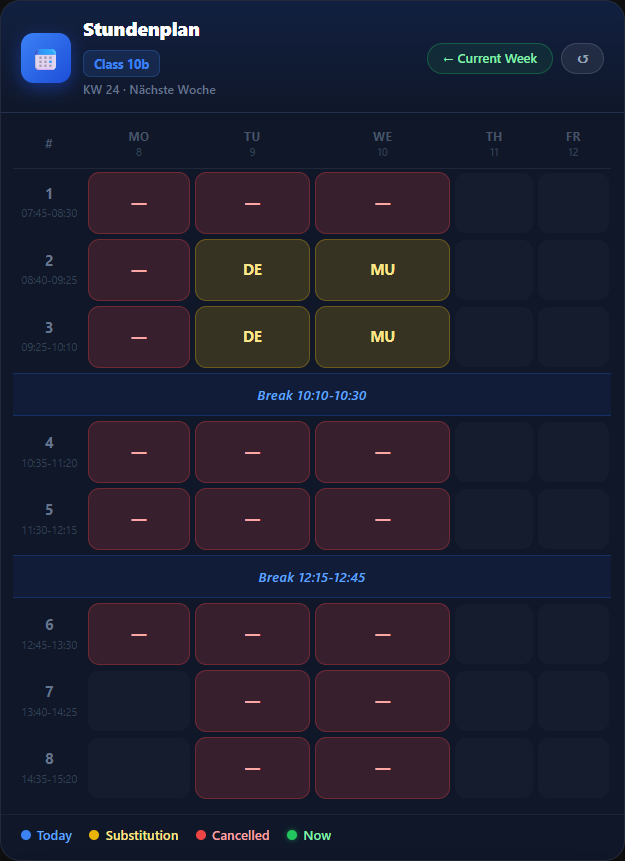
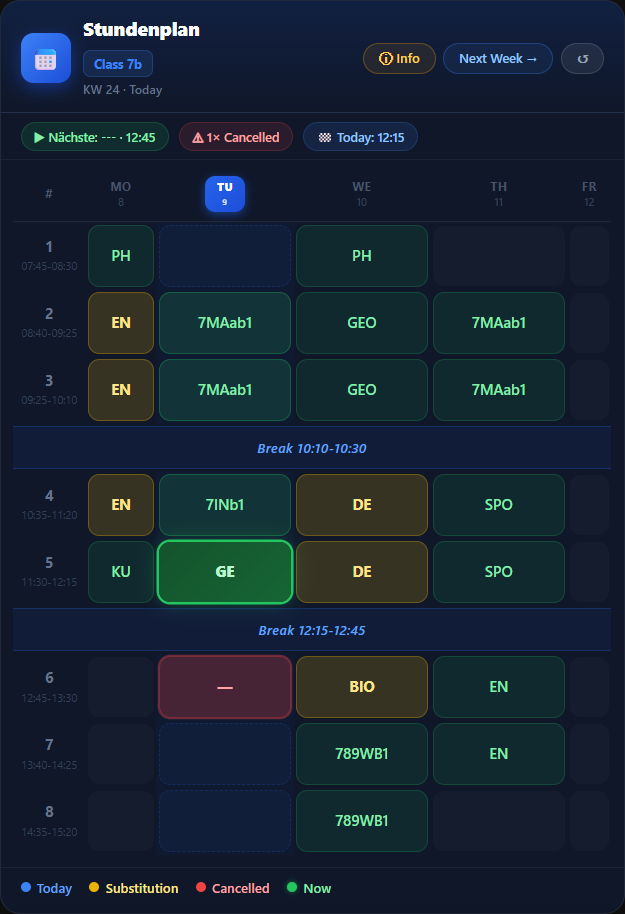
update bilder

diff --git a/website/index.html b/website/index.html
@@ -319,7 +319,7 @@
       </div>
       <div class="stat-divider"></div>
       <div class="stat-item">
-        <span class="stat-num">5+</span>
+        <span class="stat-num">8</span>
         <span class="stat-label">Sensoren pro Klasse</span>
       </div>
       <div class="stat-divider"></div>
@@ -800,17 +800,6 @@ use_custom_times: false</code></pre>
           </details>
 
           <details class="faq-item">
-            <summary>Änderungen werden nicht übernommen</summary>
-            <div class="faq-body">
-              <ol>
-                <li>Leere den Browser-Cache mit <kbd>Strg</kbd> + <kbd>F5</kbd></li>
-                <li>Öffne die Browser-Konsole (<kbd>F12</kbd>) und prüfe auf Fehler</li>
-                <li>Stelle sicher, dass die neueste Version geladen wurde</li>
-              </ol>
-            </div>
-          </details>
-
-          <details class="faq-item">
             <summary>Entity nicht gefunden / Sensor fehlt</summary>
             <div class="faq-body">
               <p>Stelle sicher, dass die VpMobile24 Integration korrekt installiert ist und der Sensor <code>sensor.vpmobile24_week_table</code> existiert. Gehe zu <strong>Einstellungen → Geräte &amp; Dienste</strong> und prüfe den Status der Integration.</p>
@@ -852,18 +841,6 @@ use_custom_times: false</code></pre>
           </details>
 
           <details class="faq-item">
-            <summary>Aktuelle Stunde wird nicht grün markiert</summary>
-            <div class="faq-body">
-              <p>Die grüne Hervorhebung funktioniert nur wenn <code>show_time: true</code> gesetzt ist und die Uhrzeiten korrekt konfiguriert sind. Die Card liest die Stunden-Zeiten und vergleicht sie mit der aktuellen Uhrzeit.</p>
-              <ol>
-                <li>Stelle sicher dass <strong>„Uhrzeiten anzeigen"</strong> aktiviert ist</li>
-                <li>Bei eigenen Zeiten: prüfe ob die Zeiten im Format <code>07:45-08:30</code> eingetragen sind</li>
-                <li>Die Markierung erscheint nur am heutigen Tag</li>
-              </ol>
-            </div>
-          </details>
-
-          <details class="faq-item">
             <summary>Mehrere Klassen mit gleichen Zugangsdaten einrichten</summary>
             <div class="faq-body">
               <p>Ab v2.5.0 kannst du mehrere Klassen derselben Schule mit identischen Zugangsdaten einrichten:</p>
@@ -877,13 +854,6 @@ use_custom_times: false</code></pre>
                 <span>💡</span>
                 <span>Gleiche Schule + gleiche Klasse wird automatisch verhindert – du bekommst eine Fehlermeldung wenn du versuchst eine bereits konfigurierte Kombination erneut anzulegen.</span>
               </div>
-            </div>
-          </details>
-
-          <details class="faq-item">
-            <summary>Ausfallstunden werden grau statt rot angezeigt</summary>
-            <div class="faq-body">
-              <p>Ausfallstunden (Fach = <code>---</code> oder leer) werden als rote Kacheln angezeigt. Falls sie grau erscheinen, liegt es an der Datenquelle – der Sensor liefert keinen Ausfall-Marker. Stelle sicher dass die Integration auf <strong>v2.5.0</strong> aktualisiert ist.</p>
             </div>
           </details>
 